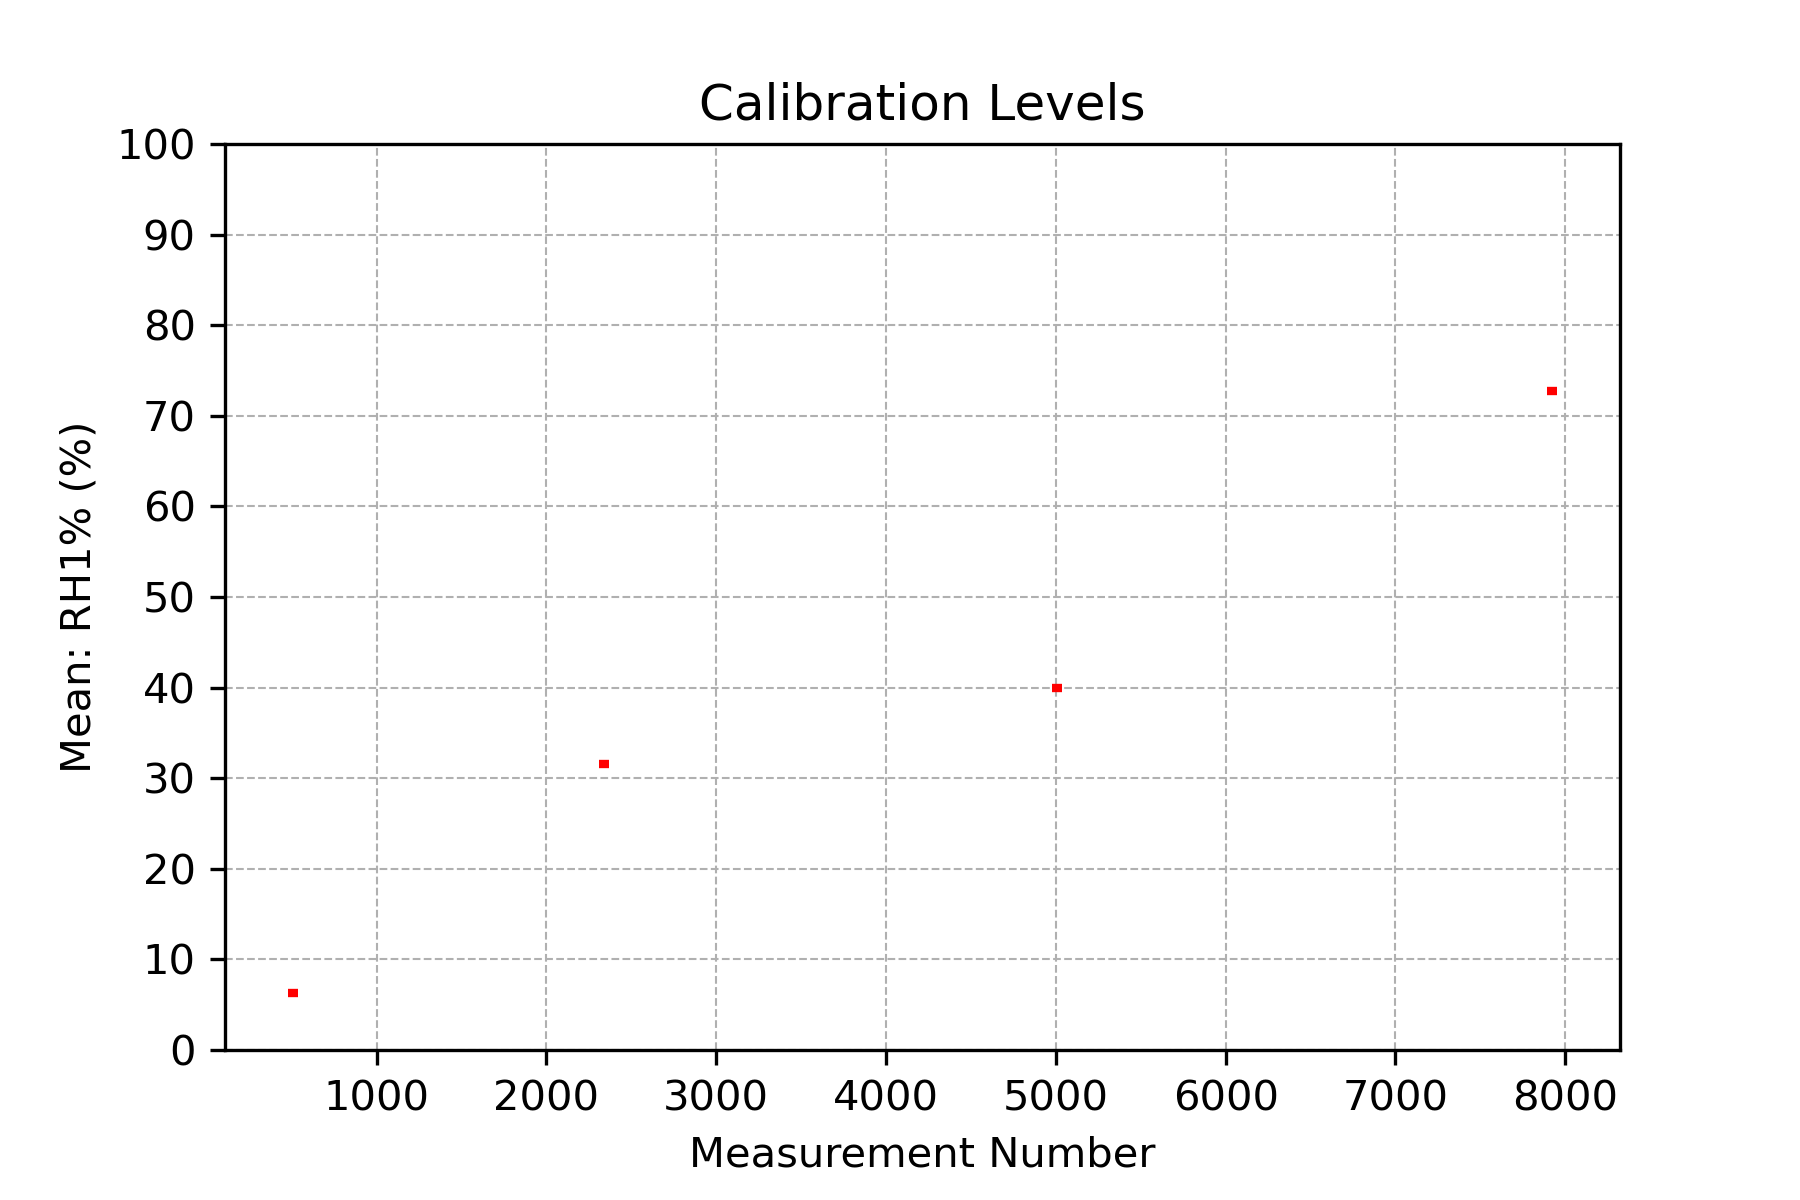
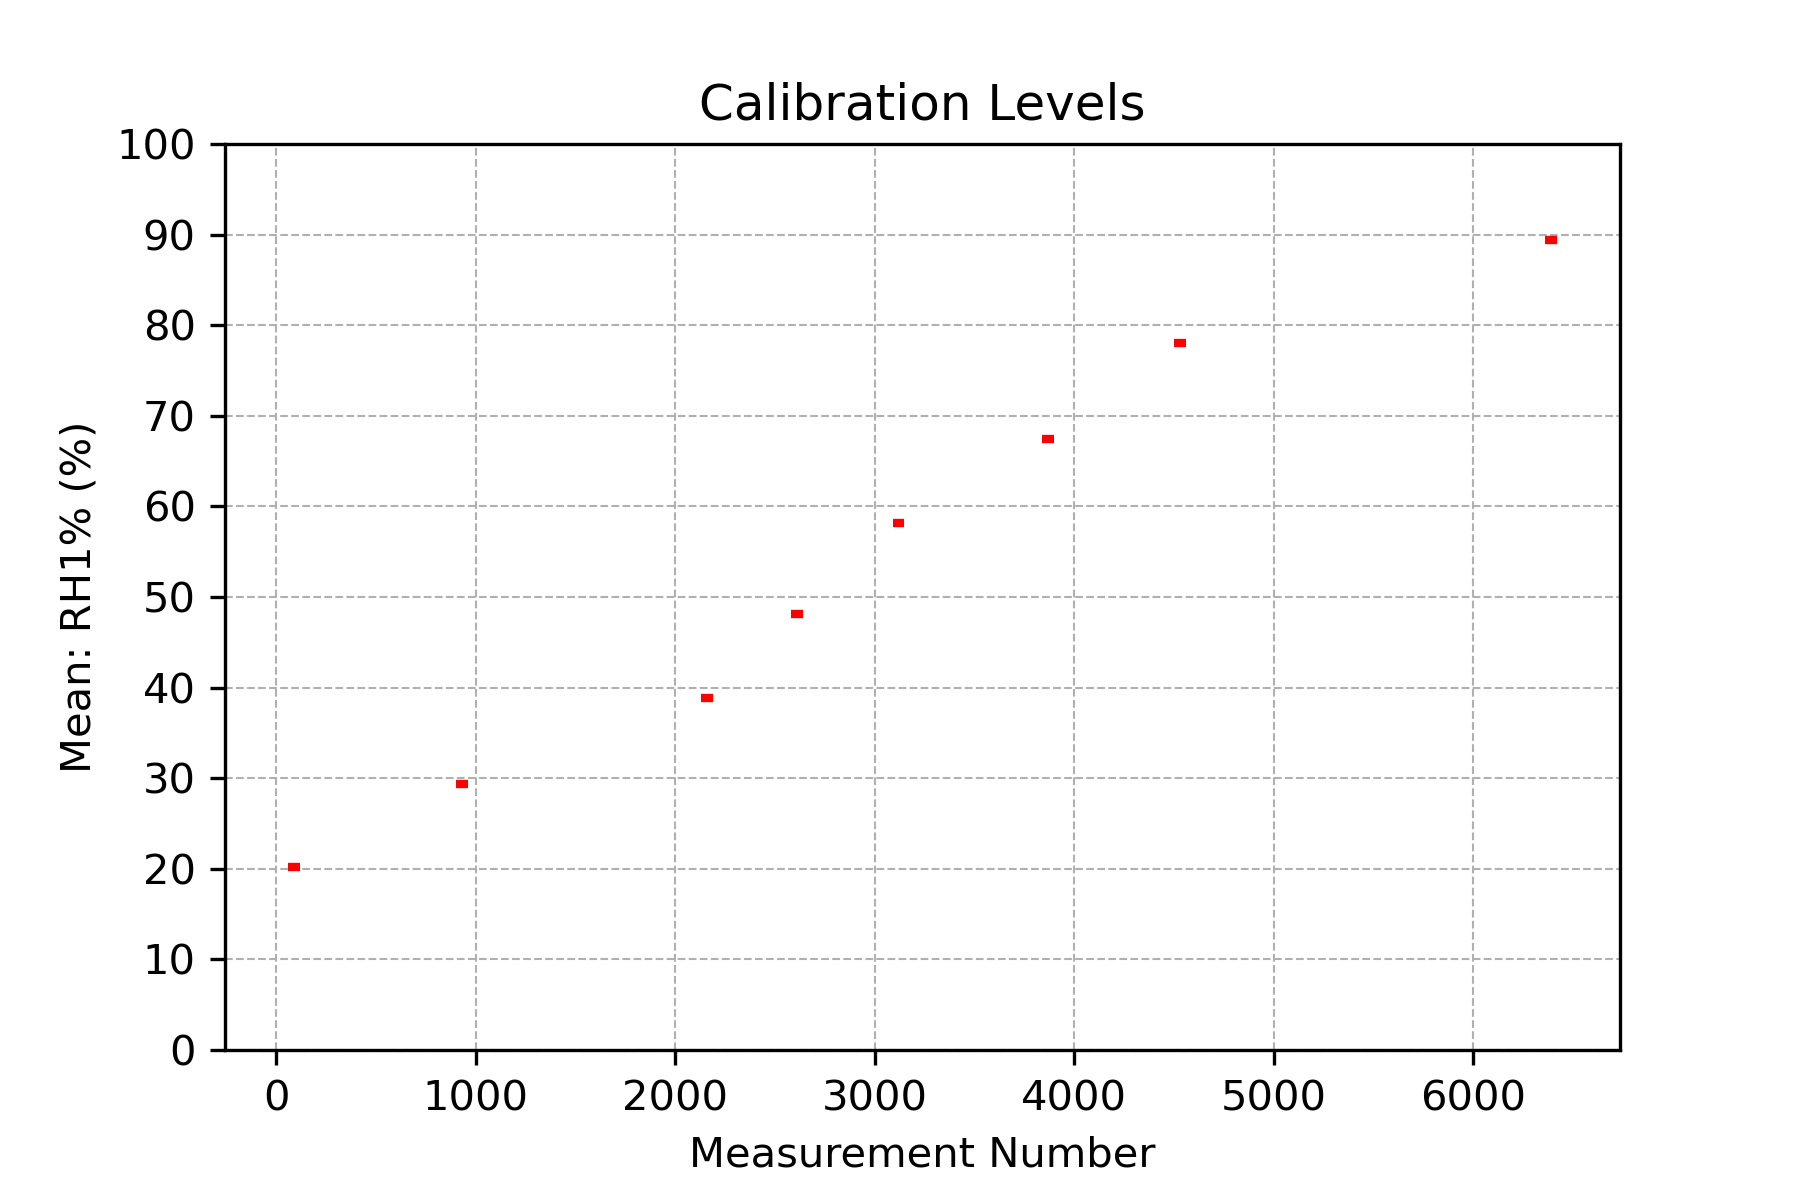
Add files via upload

diff --git a/calibration_tools/rh-analysis/rh_analysis.py b/calibration_tools/rh-analysis/rh_analysis.py
@@ -1,0 +1,345 @@
+#!/usr/bin/env python3
+# -*- coding: utf-8 -*-
+"""
+Extended rh-analysis.py to also create new calibration graphs with reference curves,
+but only for the best calibration ranks, and optionally auto-choosing x-axis units.
+Also checks the parent directory for merged CSV.
+Original author: Kim
+Modified for new graph requirements and auto x-axis.
+"""
+
+import pandas as pd
+import argparse
+import matplotlib.pyplot as plt
+import os
+import sys
+from pathlib import Path
+import re
+import glob
+
+def get_input_file_path(base_dir, file):
+    """
+    Search for the given file in a small directory list: current dir, cal/, cal/analysis/.
+    Returns full path if found, else None.
+    """
+    dirs = ['', 'cal', 'cal/analysis']
+    for d in dirs:
+        target = os.path.join(base_dir, d, file)
+        if os.path.isfile(target):
+            return os.path.abspath(target)
+    return None
+
+def find_latest_merged_csv():
+    """
+    Look for merged-YYYYMMDD-hhmmss.csv in cal/, cal/analysis/, then the parent directory.
+    Return the path to the most recent file or None if none found.
+    """
+    parent_dir = os.path.abspath('..')  # One level up from current directory
+
+    # Directories to check in order:
+    dirs_to_check = [
+        'cal',
+        os.path.join('cal', 'analysis'),
+        parent_dir
+    ]
+
+    pattern = re.compile(r'merged-(\d{8}-\d{6})\.csv$')
+    candidates = []
+
+    for d in dirs_to_check:
+        if not os.path.isdir(d):
+            continue
+        files = glob.glob(os.path.join(d, 'merged-*.csv'))
+        for f in files:
+            fname = os.path.basename(f)
+            match = pattern.match(fname)
+            if match:
+                dt_str = match.group(1)  # e.g. 20250407-114016
+                # convert "YYYYMMDD-HHMMSS" -> integer "YYYYMMDDHHMMSS"
+                dt_int = int(dt_str.replace('-', ''))
+                candidates.append((dt_int, os.path.abspath(f)))
+    if not candidates:
+        return None
+
+    # sort descending by dt_int => pick the newest
+    candidates.sort(key=lambda x: x[0], reverse=True)
+    return candidates[0][1]
+
+def determine_target_directory(rh_path, merged_path):
+    """
+    Decide output directory based on locations:
+      If both rh_analysis.csv and merged CSV are in current dir => 'analysis-rh'
+      Else if rh_analysis.csv is in cal/analysis => 'analysis-rh' (within cal/analysis)
+      Otherwise default to 'analysis-rh'.
+    """
+    current_dir = os.path.abspath('.')
+    rh_dir = os.path.dirname(os.path.abspath(rh_path)) if rh_path else ''
+    merged_dir = os.path.dirname(os.path.abspath(merged_path)) if merged_path else ''
+
+    if rh_dir == current_dir and merged_dir == current_dir:
+        # both in current dir
+        return os.path.join(current_dir, 'analysis-rh')
+    # if rh_analysis in cal/analysis (or we see "analysis" in path)
+    if 'cal/analysis' in rh_dir.replace('\\','/'):
+        return os.path.join(rh_dir, 'analysis-rh')
+
+    return os.path.join(current_dir, 'analysis-rh')
+
+def read_and_filter_data(file_path, threshold):
+    """
+    Read the CSV file into a DataFrame and filter out rows where
+    'Sum of abs(slope)' exceeds threshold.
+    """
+    df = pd.read_csv(file_path)
+    df_filtered = df[df['Sum of abs(slope)'] <= threshold]
+    return df_filtered
+
+def analyze_column(data, col_mean_rhref, col_mean, targets):
+    """
+    For each target in 'targets', find the row whose col_mean is closest.
+    Keep each rank only once. Return a list of (Rank, RHref, RHx).
+    """
+    results = []
+    seen_ranks = []
+
+    for target in targets:
+        # find row with col_mean closest to target
+        closest_row = data.iloc[(data[col_mean] - target).abs().argsort()[:1]].iloc[0]
+        value = closest_row[col_mean]
+        dist = abs(value - target)
+        # skip if too far from target
+        if dist > 5:
+            continue
+        if closest_row['Rank'] not in seen_ranks:
+            results.append((int(closest_row['Rank']),
+                            closest_row[col_mean_rhref],
+                            closest_row[col_mean]))
+            seen_ranks.append(closest_row['Rank'])
+
+    # sort by sensor RH
+    results_sorted = sorted(results, key=lambda x: x[2])
+    return results_sorted
+
+def save_results_to_csv(results, file_path, value_col):
+    """
+    Save (Rank, RHref%, value_col) to CSV and a corresponding .txt.
+    """
+    headers = ['Rank', 'RHref%', value_col]
+    df = pd.DataFrame(results, columns=headers)
+    df.to_csv(file_path, index=False)
+
+    txt_file_path = file_path.replace('.csv', '.txt')
+    df_txt = df[['RHref%', value_col]]
+    df_txt.to_csv(txt_file_path, index=False, header=True)
+
+def plot_results(data, results, interval_col_start, interval_col_end, y_col, filename):
+    """
+    Original plot: horizontal lines (interval start->end) at sensor mean.
+    """
+    fig, ax = plt.subplots()
+
+    # Create the plot
+    for row in results:
+        rank, rhref, rh = row
+        interval_start = data[data['Rank'] == rank][interval_col_start].values[0]
+        interval_end   = data[data['Rank'] == rank][interval_col_end].values[0]
+        ax.hlines(y=rh, xmin=interval_start, xmax=interval_end, colors='r', linewidth=2)
+
+    # Adding grid, labels, and title
+    ax.grid(True, which='both', linestyle='--', linewidth=0.5)
+    ax.set_xlabel('Measurement Number')
+    ax.set_ylabel(f'{y_col}')
+    ax.set_title('Calibration Levels')
+    plt.yticks([i for i in range(0, 101, 10)])
+    ax.set_ylim(0, 100)
+
+    # Save the plot
+    plt.savefig(filename, dpi=300)
+    plt.close()
+
+# ---------------------------------------------------------------
+# NEW CODE: Automatic scaling of the x-axis for the plateau plots
+# ---------------------------------------------------------------
+def get_time_scale_and_label(max_time_s):
+    """
+    Decide the scale factor and label based on the largest time in seconds.
+    0-300 s:   use seconds (s)
+    301-18000 s (5min-300min):  use minutes (min)
+    18001-432000 s (5h-120h):   use hours (h)
+    >432000 s (>120h):          use days (d)
+    Returns (scale_factor, x_label).
+    """
+    if max_time_s <= 300:
+        return 1.0, "Time (s)"
+    elif max_time_s <= 18000:
+        return 1.0 / 60.0, "Time (min)"
+    elif max_time_s <= 432000:
+        return 1.0 / 3600.0, "Time (h)"
+    else:
+        return 1.0 / 86400.0, "Time (d)"
+
+def plot_calibration_plateaus(
+    merged_df, analysis_subset,
+    sensor_mean_col, sensor_label, out_png,
+    auto_scale=False
+):
+    """
+    - If auto_scale=True, determine the best time scale from merged_df['Time (s)'].max().
+    - Plot merged_df time vs reference and sensor.
+    - Only the intervals in analysis_subset are drawn as plateau lines and vertical offsets.
+    """
+    if 'Time (s)' not in merged_df.columns or 'RHref (%RH)' not in merged_df.columns:
+        print("Merged CSV missing required columns for the new plateau plot.")
+        return
+    if sensor_label not in merged_df.columns or sensor_mean_col not in analysis_subset.columns:
+        print(f"Missing required columns for sensor {sensor_label}. Skipping that plot.")
+        return
+
+    # Decide scaling
+    if auto_scale:
+        max_time_s = merged_df['Time (s)'].max()
+        x_scale, x_label = get_time_scale_and_label(max_time_s)
+    else:
+        x_scale, x_label = (1.0, "Time (s)")
+
+    # Create scaled X data for the entire merged file
+    merged_x = merged_df['Time (s)'] * x_scale
+
+    # Build the figure
+    fig, ax = plt.subplots()
+
+    # Plot reference (scaled X)
+    ax.plot(merged_x, merged_df['RHref (%RH)'], label='Ref RH', color='tab:red')
+    # Plot sensor
+    ax.plot(merged_x, merged_df[sensor_label], label=sensor_label, color='tab:blue')
+
+    # Overlay calibration intervals from analysis_subset, also scaled
+    for _, row in analysis_subset.iterrows():
+        start_s = row.get('Interval start (s)', None)
+        end_s   = row.get('Interval end (s)', None)
+        ref_val = row.get('Mean: RHref (%RH)', None)
+        sensor_val = row.get(sensor_mean_col, None)
+
+        if pd.isna(start_s) or pd.isna(end_s) or pd.isna(ref_val) or pd.isna(sensor_val):
+            continue
+
+        # Scale intervals
+        start_x = start_s * x_scale
+        end_x   = end_s * x_scale
+        mid_x   = 0.5*(start_x + end_x)
+
+        # Horizontal line at sensor mean
+        ax.hlines(y=sensor_val, xmin=start_x, xmax=end_x, linestyles='-', color='k')
+        # Also a horizontal line at ref mean (if desired)
+        ax.hlines(y=ref_val, xmin=start_x, xmax=end_x, linestyles='-', color='k')
+        # Vertical line
+        ymin, ymax = sorted([ref_val, sensor_val])
+        ax.vlines(x=mid_x, ymin=ymin, ymax=ymax, linestyles='-', color='k')
+
+    ax.set_xlabel(x_label)  # auto-chosen or "Time (s)"
+    ax.set_ylabel('%RH')
+    ax.set_title('Calibration Levels')
+    ax.grid(True, which='major')
+    ax.legend(loc='upper left')
+    plt.savefig(out_png, dpi=300)
+    plt.close()
+
+def main():
+    analysis_dir = './analysis-rh'  # original default; we will override below if needed
+
+    parser = argparse.ArgumentParser(description='Process RH Analysis Data.')
+    parser.add_argument('file_path', type=str, help='Path to the CSV file (rh_analysis.csv).')
+    parser.add_argument('-th', type=float, default=0.003, help='Threshold for "Sum of abs(slope)"')
+    # NEW ARGUMENT: "-a" or "--auto" (store_true => becomes True if given, else False)
+    parser.add_argument('-a', '--auto', action='store_true',
+                        help='Automatically choose time-axis units for plateau plots.')
+    args = parser.parse_args()
+
+    # 1) Confirm rh_analysis.csv location
+    dir_path = str(Path(args.file_path).parent.absolute())
+    file_name = Path(args.file_path).name
+    analysis_csv_path = get_input_file_path(dir_path, file_name)
+    if analysis_csv_path is None:
+        print(f'File {file_name} not found.')
+        sys.exit()
+
+    # 2) Find the latest merged CSV (including parent directory)
+    merged_csv_path = find_latest_merged_csv()
+
+    # 3) Decide output directory based on rules
+    if merged_csv_path:
+        analysis_dir = determine_target_directory(analysis_csv_path, merged_csv_path)
+
+    # 4) Read/Filter rh_analysis.csv
+    df = read_and_filter_data(analysis_csv_path, args.th)
+
+    # Create analysis directory
+    analysis_dir = Path(analysis_dir).absolute()
+    analysis_dir.mkdir(parents=True, exist_ok=True)
+
+    # 5) Original steps: analyze ranks
+    targets = list(range(0, 110, 10))
+
+    # We'll keep these for plateau plotting:
+    best_rh1_ranks = []
+    best_rh2_ranks = []
+
+    # Analyze RH1 if present
+    if 'Mean: RH1% (%)' in df.columns:
+        results_rh1 = analyze_column(df, 'Mean: RHref (%RH)', 'Mean: RH1% (%)', targets)
+        csv_file = os.path.join(analysis_dir, 'rh1-ranks.csv')
+        save_results_to_csv(results_rh1, csv_file, 'RH1%')
+        png_file = os.path.join(analysis_dir, 'rh1-cal-levels.png')
+        plot_results(df, results_rh1, 'Interval start (s)', 'Interval end (s)', 'Mean: RH1% (%)', png_file)
+
+        # Save the best ranks for new plateau plotting
+        best_rh1_ranks = [row[0] for row in results_rh1]  # row[0] is the Rank
+
+    # Analyze RH2 if present
+    if 'Mean: RH2% (%)' in df.columns:
+        results_rh2 = analyze_column(df, 'Mean: RHref (%RH)', 'Mean: RH2% (%)', targets)
+        csv_file = os.path.join(analysis_dir, 'rh2-ranks.csv')
+        save_results_to_csv(results_rh2, csv_file, 'RH2%')
+        png_file = os.path.join(analysis_dir, 'rh2-cal-levels.png')
+        plot_results(df, results_rh2, 'Interval start (s)', 'Interval end (s)', 'Mean: RH2% (%)', png_file)
+
+        # Save the best ranks
+        best_rh2_ranks = [row[0] for row in results_rh2]
+
+    # 6) Generate the new calibration plateau graphs if we have a merged CSV
+    if merged_csv_path is not None and os.path.isfile(merged_csv_path):
+        merged_df = pd.read_csv(merged_csv_path)
+
+        # If sensor1 present -> rh1_cal_plateaus.png
+        has_rh1 = ('RH1% (%)' in merged_df.columns) and ('Mean: RH1% (%)' in df.columns)
+        if has_rh1 and best_rh1_ranks:
+            # Subset df to only those rows whose "Rank" is in best_rh1_ranks
+            df_rh1_subset = df[df['Rank'].isin(best_rh1_ranks)]
+            out_png_1 = os.path.join(analysis_dir, 'rh1_cal_plateaus.png')
+            plot_calibration_plateaus(
+                merged_df=merged_df,
+                analysis_subset=df_rh1_subset,
+                sensor_mean_col='Mean: RH1% (%)',
+                sensor_label='RH1% (%)',
+                out_png=out_png_1,
+                auto_scale=args.auto  # <--- new
+            )
+
+        # If sensor2 present -> rh2_cal_plateaus.png
+        has_rh2 = ('RH2% (%)' in merged_df.columns) and ('Mean: RH2% (%)' in df.columns)
+        if has_rh2 and best_rh2_ranks:
+            df_rh2_subset = df[df['Rank'].isin(best_rh2_ranks)]
+            out_png_2 = os.path.join(analysis_dir, 'rh2_cal_plateaus.png')
+            plot_calibration_plateaus(
+                merged_df=merged_df,
+                analysis_subset=df_rh2_subset,
+                sensor_mean_col='Mean: RH2% (%)',
+                sensor_label='RH2% (%)',
+                out_png=out_png_2,
+                auto_scale=args.auto  # <--- new
+            )
+    else:
+        print("No merged CSV found; skipping creation of new plateau graphs.")
+
+if __name__ == '__main__':
+    main()
